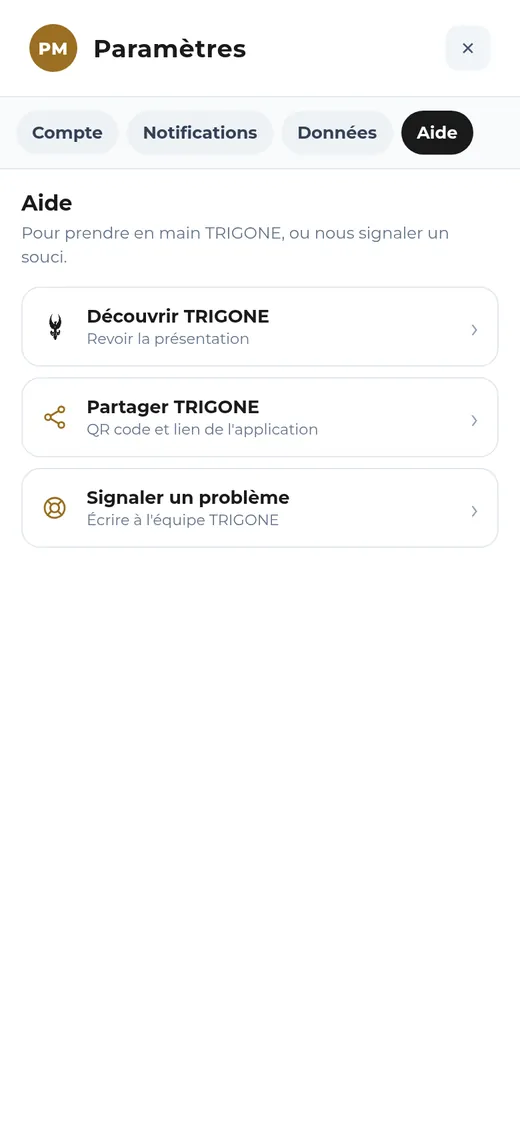
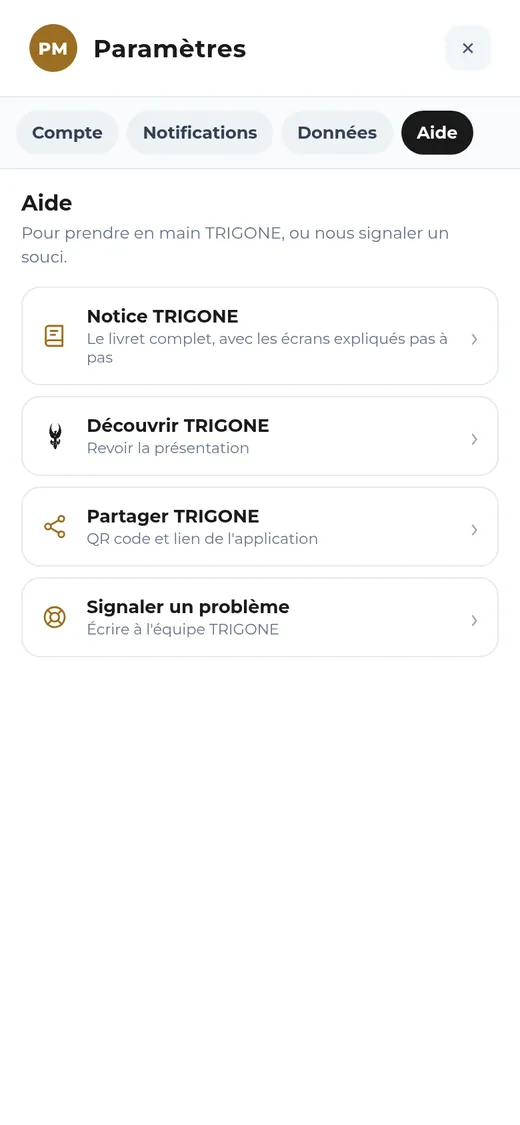
V153 : notice, protection des données en langage courant + annexe technique (#215)
* Notice : captures à jour (accueil, Paramètres, Mon profil avec la flèche)

Claude-Session: https://claude.ai/code/session_01NStkfCttCkWn8HaycQvLWX

* V153 : notice, protection des données en langage courant + annexe technique ; captures à jour

Claude-Session: https://claude.ai/code/session_01NStkfCttCkWn8HaycQvLWX

---------

diff --git a/notice/notice.js b/notice/notice.js
@@ -4,7 +4,7 @@
 // appli avec des personnages fictifs (notice/img), repères dorés ① ② ③ repris dans le texte.
 // {B} : chemin de la racine de TRIGONE (« ../ » depuis Compte-rendu).
 (function() {
-    var VERSION = 150;
+    var VERSION = 153;
     // Capture : un bouton, pour que le toucher l'agrandisse au lieu de tourner la page.
     function img(n) { return '<button type="button" class="n-capt" data-zoom="{B}notice/img/' + n + '.webp" aria-label="Agrandir la capture"><img src="{B}notice/img/' + n + '.webp" alt=""><i>⤢</i></button>'; }
     function r(n) { return '<span class="n-r">' + n + '</span>'; }
@@ -212,28 +212,40 @@
         '<b>Je ne reçois pas les notifications.</b><p>Paramètres › Notifications › Activer, puis « tester ». Sur Android : Chrome › Batterie › « Non restreinte ». Sur iPhone : TRIGONE installé sur l\'écran d\'accueil.</p>' +
         '<b>Un souci, une idée ?</b><p>Paramètres › Aide › <b>Signaler un problème</b> : votre messagerie s\'ouvre avec la version et l\'appareil déjà indiqués.</p></div>', 'faq'));
 
-    // ---------- 16. Protection des données ----------
-    ajouter(chapitre(16, 'Protection des données et hébergement', 'Comment TRIGONE protège vos informations : ce qui reste sur votre appareil, ce qui passe par le serveur, comment c\'est chiffré, et où c\'est hébergé.',
-        ['Vos données restent sur votre appareil', 'Des envois chiffrés de bout en bout', 'Signatures, codes et empreinte', 'Le serveur et l\'hébergement', 'Ce que le serveur conserve'], 'secu'));
+    // ---------- 16. Protection des données (en langage courant ; le détail technique est en annexe) ----------
+    ajouter(chapitre(16, 'Protection de vos données', 'Ce que TRIGONE fait de vos informations, en quelques mots : ce qui reste chez vous, qui peut lire vos envois, et ce que le serveur garde.',
+        ['Vos données restent chez vous', 'Vos envois : seul le destinataire peut les lire', 'Ce que le serveur garde', 'En résumé'], 'secu'));
     ajouter(page('Vos données restent chez vous', '<div class="n-secu">' +
+        '<b>Sur votre appareil</b><p>Vos demandes, comptes-rendus, justificatifs, votre profil, votre carte et sa photo sont rangés <b>dans TRIGONE, sur votre téléphone ou votre PC</b>. Il n\'existe pas de grand fichier central de vos missions.</p>' +
+        '<b>Pas de mot de passe</b><p>Pour vous connecter, TRIGONE vous envoie un <b>code à 6 chiffres</b> par mail, valable 15 minutes. Rien à retenir, rien à se faire voler.</p>' +
+        '<b>Code d\'accès et empreinte</b><p>Le code à 4 chiffres protège l\'ouverture de TRIGONE. Votre <b>empreinte</b> est vérifiée <b>par le téléphone lui-même</b> : TRIGONE ne la voit jamais.</p>' +
+        '<b>Sauvegarde automatique</b><p>Elle est <b>verrouillée sur votre téléphone</b> avec votre code de récupération, que vous seul connaissez. Personne d\'autre ne peut l\'ouvrir, pas même le serveur.</p></div>', 'secu'));
+    ajouter(page('Vos envois et le serveur', '<div class="n-secu">' +
+        '<b>Seul le destinataire peut lire</b><p>Une demande ou un compte-rendu est <b>verrouillé dans votre appli avant de partir</b>. Seul l\'appareil du destinataire peut l\'ouvrir. En route, le serveur ne voit qu\'un contenu <b>illisible</b>, effacé dès qu\'il est reçu.</p>' +
+        '<b>Validations signées</b><p>Chaque validation est <b>signée électroniquement</b> par le valideur. Si une demande était modifiée en route, l\'assistant Chorus DT le verrait aussitôt.</p>' +
+        '<b>Ce que le serveur garde</b><p>Votre adresse mail et vos rôles ; l\'<b>étape</b> où en est votre demande (pas son contenu) ; votre <b>carte</b> (grade, nom, unité) ; le <b>registre des OMR</b>, réservé aux assistants Chorus DT.</p>' +
+        '<b>Où est-ce hébergé ?</b><p>Chez <b>Cloudflare</b>, avec des connexions toujours sécurisées. En cas de bug, l\'erreur est remontée <b>sans votre nom ni vos missions</b>.</p></div>', 'secu'));
+    ajouter(page('En résumé', '<div class="n-resume">' +
+        ['🔒 Vos missions restent <b>sur votre appareil</b>.', '✉ Vos envois sont <b>verrouillés</b> : seul le destinataire peut les lire.', '✍ Les validations sont <b>signées</b> et vérifiées.', '☁ La sauvegarde est <b>verrouillée sur le téléphone</b> : le serveur ne peut pas l\'ouvrir.', '👆 L\'empreinte <b>ne quitte jamais</b> le téléphone.', '🗑 Un compte supprimé efface son adresse, ses rôles et sa carte du serveur.'].map(function(x) { return '<div>' + x + '</div>'; }).join('') + '</div>' +
+        attention('Protégez votre téléphone (code de verrouillage), activez le <b>code d\'accès</b> de TRIGONE et gardez votre <b>code de récupération</b> en lieu sûr.'), 'secu'));
+
+
+    // ---------- Annexe technique (officier sécurité, CIMOB) ----------
+    ajouter(Object.assign(page('Annexe technique — pour l\'officier sécurité', '<p class="n-chap-res" style="margin:0 0 6px">Le détail technique de la protection des données de TRIGONE, pour l\'officier sécurité ou le CIMOB. Le missionnaire n\'en a pas besoin : le chapitre 16 suffit.</p><div class="n-secu">' +
         '<b>Sur votre appareil</b><p>Demandes, comptes-rendus, justificatifs, profil, carte et photo sont rangés <b>dans TRIGONE, sur votre téléphone ou votre PC</b>. Il n\'y a pas de base de données centrale de vos missions.</p>' +
         '<b>Un compte sans mot de passe</b><p>Le compte est votre adresse mail, vérifiée par un code à 6 chiffres (valable 15 min, 5 essais). Chaque appareil reçoit son <b>jeton d\'accès</b> ; le serveur n\'en garde qu\'une empreinte.</p>' +
         '<b>Code d\'accès et empreinte</b><p>Le code à 4 chiffres protège l\'ouverture de TRIGONE sur l\'appareil. L\'empreinte (ou le visage) est vérifiée <b>par le téléphone lui-même</b> : TRIGONE ne la reçoit jamais.</p>' +
-        '<b>Mises à jour</b><p>L\'appli se met à jour depuis la source officielle à chaque ouverture : tout le monde a la même version.</p></div>', 'secu'));
+        '<b>Mises à jour</b><p>L\'appli se met à jour depuis la source officielle à chaque ouverture : tout le monde a la même version.</p></div>', 'annexe'), { chapitre: { n: 'A', titre: 'Annexe technique (officier sécurité)' } }));
     ajouter(page('Des envois chiffrés de bout en bout', '<div class="n-secu">' +
         '<b>Une clé par appareil</b><p>Chaque appareil possède sa <b>clé de chiffrement</b> (ECDH P-256). La clé privée <b>ne quitte jamais l\'appareil</b> ; le serveur ne connaît que la clé publique.</p>' +
         '<b>Chiffré avant de partir</b><p>Une demande ou un compte-rendu est chiffré <b>dans l\'appli de l\'expéditeur</b> (AES-GCM 256 bits), pour chacun des appareils du destinataire. Le serveur ne voit que des données <b>illisibles</b>, et les efface à la réception (au plus tard après 30 jours).</p>' +
         '<b>Signatures des valideurs</b><p>Chaque validation est <b>signée électroniquement</b> (ECDSA P-256) avec la clé du rôle, débloquée par le code du rôle. L\'assistant Chorus DT <b>vérifie</b> les signatures et les pièces jointes avant le PDF final : une demande modifiée en route est détectée.</p>' +
-        '<b>Sauvegarde automatique</b><p>Chiffrée <b>sur votre téléphone</b> (AES-GCM 256) avec une clé tirée de votre code de récupération (PBKDF2, 310 000 tours). Le code n\'est jamais transmis : le serveur ne peut pas la lire.</p></div>', 'secu'));
+        '<b>Sauvegarde automatique</b><p>Chiffrée <b>sur votre téléphone</b> (AES-GCM 256) avec une clé tirée de votre code de récupération (PBKDF2, 310 000 tours). Le code n\'est jamais transmis : le serveur ne peut pas la lire.</p></div>', 'annexe'));
     ajouter(page('Le serveur et l\'hébergement', '<div class="n-secu">' +
         '<b>Hébergement</b><p>L\'appli et son serveur sont hébergés chez <b>Cloudflare</b> (Workers) : la page de TRIGONE, la boîte aux lettres chiffrée (stockage KV et base D1). Les connexions sont toujours en <b>HTTPS</b>.</p>' +
         '<b>Envoi des codes</b><p>Le mail du code de connexion part par <b>Brevo</b>, depuis noreply@trigone-app.com, domaine authentifié (SPF, DKIM, DMARC).</p>' +
         '<b>Ce que le serveur conserve, en clair</b><p>Pour fonctionner, il garde : votre adresse et vos rôles ; l\'<b>étape</b> de suivi de vos demandes (sans leur contenu) ; votre <b>carte</b> (grade, nom, unité, NID, lisibles seulement par un compte connecté, sauf grade, nom et unité sur la page de vérification) ; le <b>registre OMR</b> de l\'unité (objet, dates, personnel, montants, réservé aux assistants Chorus DT) ; le compteur des n° OMR.</p>' +
-        '<b>Erreurs de l\'appli</b><p>Une erreur technique est remontée de façon <b>anonyme</b> : jamais de nom, de mail ni de donnée de mission.</p></div>', 'secu'));
-    ajouter(page('En résumé', '<div class="n-resume">' +
-        ['🔒 Vos missions restent <b>sur votre appareil</b>.', '✉ Les envois sont <b>chiffrés de bout en bout</b> : seul le destinataire peut les lire.', '✍ Les validations sont <b>signées</b> et vérifiées.', '☁ La sauvegarde est <b>chiffrée sur le téléphone</b> : le serveur ne peut pas l\'ouvrir.', '👆 L\'empreinte <b>ne quitte jamais</b> le téléphone.', '🗑 Un compte supprimé efface son adresse, ses rôles et sa carte du serveur.'].map(function(x) { return '<div>' + x + '</div>'; }).join('') + '</div>' +
-        attention('Protégez votre téléphone (code de verrouillage), activez le <b>code d\'accès</b> de TRIGONE et gardez votre <b>code de récupération</b> en lieu sûr.'), 'secu'));
-
+        '<b>Erreurs de l\'appli</b><p>Une erreur technique est remontée de façon <b>anonyme</b> : jamais de nom, de mail ni de donnée de mission.</p></div>', 'annexe'));
     // ---------- Fin ----------
     ajouter(page('', '<div class="n-fin"><img src="{B}phoenix-icon.png" alt=""><div class="n-garde-t">TRIGONE</div><p>Conçu par Germain-Pierre BOUQUET<br>4°RIISC</p>' +
         '<p>Un souci, une question, une idée ?<br><b>Paramètres › Aide › Signaler un problème</b></p><p class="n-garde-note">Notice de la version ' + VERSION + '.</p></div>'));

diff --git a/tests/test-notice.js b/tests/test-notice.js
@@ -33,7 +33,7 @@ module.exports = async function(srv) {
     });
     verifier(info.ouvert && info.flip, 'la notice s\'ouvre en livre (pages qui tournent)');
     verifier(info.couv && info.titre === 'Notice' && info.num === 'Couverture', 'couverture cuir « TRIGONE · Notice »');
-    verifier(info.pages > 80 && info.pages % 2 === 0 && info.chap === 16 && info.secu, 'contenu : ' + info.pages + ' pages, 16 chapitres dont « Protection des données et hébergement »');
+    verifier(info.pages > 80 && info.pages % 2 === 0 && info.chap === 17 && info.secu, 'contenu : ' + info.pages + ' pages, 16 chapitres et l\'annexe technique, dont « Protection de vos données »');
     // Aucune page ne déborde (format PC 566 et format téléphone allongé).
     const trop = await p.evaluate(() => {
         const N = window.NOTICE_TRIGONE, z = document.createElement('div'), r = []; z.style.cssText = 'position:fixed;left:-5000px;top:0'; document.body.appendChild(z);
@@ -71,7 +71,7 @@ module.exports = async function(srv) {
     verifier(await p.evaluate(() => document.querySelector('.N-NUM').textContent) === secu + ' / ' + info.pages, 'JUMELAGE_NOTICE(\'secu\') : ouverte sur « Protection des données »');
     await p.evaluate(() => document.querySelector('.JUM-NOTICE')._fermer()); await attendre(300);
     // Compte-rendu : bouton « Notice TRIGONE » dans la page Notice, chemins des images corrects
-    await p.goto(srv.url + 'cr/'); await attendre(2500);
+    await p.goto(srv.url + 'cr/'); await p.waitForFunction(() => typeof OUVRIR_NOTICE_MENU === 'function', null, { timeout: 15000 }); await attendre(1000);
     await p.evaluate(() => { const m = document.getElementById('MSG-OVERLAY'); if (m) m.style.display = 'none'; document.querySelectorAll('.JUM-CHOIX').forEach(e => e.remove()); OUVRIR_NOTICE_MENU(); }); await attendre(500);
     verifier(await p.evaluate(() => !!document.querySelector('#NOTICE-LIVRET .JUM-NOTICE-LIVRET')), 'Compte-rendu › Notice : bouton « Notice TRIGONE »');
     await p.click('#NOTICE-LIVRET .JUM-NOTICE-LIVRET'); await attendre(2500);

diff --git a/cr/index.html b/cr/index.html
@@ -11,7 +11,7 @@
 <link rel="manifest" href="../manifest.json">
 <meta name="apple-mobile-web-app-title" content="TRIGONE">
 <meta name="application-name" content="TRIGONE">
-<script src="../jumelage.js?v=153"></script>
+<script src="../jumelage.js?v=154"></script>
 <link rel="icon" type="image/png" sizes="192x192" href="icon-192.png?v=3">
 <link rel="apple-touch-icon" href="apple-touch-icon.png?v=3">
 <link href="../fonts/montserrat.css" rel="stylesheet"><!-- police hébergée avec TRIGONE : identique hors ligne -->
@@ -11511,7 +11511,7 @@ function SET_UPDATE_SEEN_VERSION(cle, version) {
 // Numéro de version du code de CETTE appli. À augmenter à chaque publication, en même temps que
 // « appCodeVersion » dans updates-manifest.json : c'est ce qui permet à l'appli de savoir si elle est
 // déjà à jour (elle affiche alors les « Nouveautés ») ou en retard (elle demande la mise à jour).
-var APP_CODE_VERSION = 250;
+var APP_CODE_VERSION = 251;
 // Jumelage : numéro affiché « V1, V2… » ; APP_CODE_VERSION reste le compteur interne des mises à jour
 // (à augmenter avec appCodeVersion de cr/updates-manifest.json, sans jamais le faire redescendre).
 var APP_VERSION_AFFICHEE = APP_CODE_VERSION - 98;

diff --git a/index.html b/index.html
@@ -5,7 +5,7 @@
 <meta name="viewport" content="width=device-width, initial-scale=1, viewport-fit=cover">
 <title>TRIGONE — Mise en route</title>
 <link rel="manifest" href="manifest.json">
-<script src="jumelage.js?v=153"></script>
+<script src="jumelage.js?v=154"></script>
 <meta name="theme-color" content="#ecebe7">
 <link href="fonts/montserrat.css" rel="stylesheet"><!-- police hébergée avec TRIGONE : identique hors ligne -->
 <link rel="apple-touch-icon" href="apple-touch-icon.png?v=3">
@@ -970,6 +970,6 @@ body.dark-mode .MER-BASCULE-ROLE { background: rgba(255,255,255,0.08); } body.da
     </div>
   </div>
 </div>
-<script src="app.js?v=153"></script>
+<script src="app.js?v=154"></script>
 </body>
 </html>

diff --git a/jumelage.js b/jumelage.js
@@ -1013,7 +1013,7 @@
     // Dès l'ouverture (démarrage ou retour dans l'appli), TRIGONE vérifie s'il existe une publication plus récente
     // et se met à jour tout seul. Jamais au mauvais moment : uniquement sur l'accueil, sans fenêtre ouverte
     // (chaque appli le dit via JUMELAGE_PEUT_RECHARGER) ; sinon au prochain retour sur l'accueil.
-    var BUILD = 153, MAJ_DISPO = false, CLE_RECHARGE = 'trigone_recharge_build';
+    var BUILD = 154, MAJ_DISPO = false, CLE_RECHARGE = 'trigone_recharge_build';
     function peutRecharger() {
         if (document.visibilityState === 'hidden') return false;
         if (document.body && document.body.classList.contains('demo-active')) return false;

diff --git a/app.js b/app.js
@@ -1,7 +1,7 @@
 // ===================== TRIGONE MISE EN ROUTE — logique =====================
 var MER_VERSION = 1;          // version du format des fichiers .json échangés
 // Version du code de l'appli : à augmenter à chaque publication, avec « appCodeVersion » dans updates-manifest.json.
-var APP_CODE_VERSION = 200;
+var APP_CODE_VERSION = 201;
 // Numéro de version affiché (« V1 », « V2 »…) : repart de 1 au lancement de TRIGONE jumelé et suit ensuite chaque
 // publication. APP_CODE_VERSION reste le compteur interne des mises à jour (ne jamais le faire redescendre).
 var APP_VERSION_AFFICHEE = APP_CODE_VERSION - 48;

diff --git a/cr/sw.js b/cr/sw.js
@@ -1,6 +1,6 @@
 // Copie jumelée dans TRIGONE Mise en route (dossier cr/) : caches préfixés « trigone-cr- » ; ceux de
 // Mise en route (« trigone-mise-en-route- ») ne sont jamais effacés d'ici.
-const CACHE_NAME = 'trigone-cr-v542';
+const CACHE_NAME = 'trigone-cr-v543';
 const ASSETS = [
   './',
   './manifest.json',

diff --git a/sw.js b/sw.js
@@ -1,4 +1,4 @@
-const CACHE_NAME = 'trigone-mise-en-route-v207';
+const CACHE_NAME = 'trigone-mise-en-route-v208';
 const ASSETS = [
   './',
   './manifest.json',
